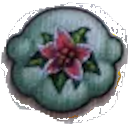
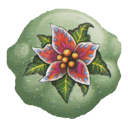
GUI polish testing

diff --git a/css/cauldron.css b/css/cauldron.css
@@ -39,15 +39,32 @@
     overflow-x: scroll;
     overflow-y: hidden;
 }
-.cauldron__board-history > div:last-child {
+.cauldron__board-history-- > div:last-child {
     -webkit-filter: drop-shadow(var(--hw) var(--hw) 0 var(--highlight-color)) 
                     drop-shadow(var(--hwn) var(--hw) 0 var(--highlight-color))
                     drop-shadow(var(--hw) var(--hwn) 0 var(--highlight-color)) 
                     drop-shadow(var(--hwn) var(--hwn) 0 var(--highlight-color));
-    filter: drop-shadow(var(--hw) var(--hw) 0 var(--highlight-color)) 
-            drop-shadow(var(--hwn) var(--hw) 0 var(--highlight-color)) 
-            drop-shadow(var(--hw) var(--hwn) 0 var(--highlight-color)) 
-            drop-shadow(var(--hwn) var(--hwn) 0 var(--highlight-color));
+    filter: 
+        /* drop-shadow(var(--hwb) var(--hwb) 0 var(--outline-color)) 
+        drop-shadow(var(--hwbn) var(--hwb) 0 var(--outline-color)) 
+        drop-shadow(var(--hwb) var(--hwbn) 0 var(--outline-color)) 
+        drop-shadow(var(--hwbn) var(--hwbn) 0 var(--outline-color)) */
+        drop-shadow(var(--hw) var(--hw) 0 var(--highlight-color)) 
+        drop-shadow(var(--hwn) var(--hw) 0 var(--highlight-color)) 
+        drop-shadow(var(--hw) var(--hwn) 0 var(--highlight-color)) 
+        drop-shadow(var(--hwn) var(--hwn) 0 var(--highlight-color))
+        drop-shadow(1px 1px 0 var(--outline-color)) 
+        drop-shadow(-1px -1px 0 var(--outline-color)) 
+        drop-shadow(1px -1px 0 var(--outline-color)) 
+        drop-shadow(-1px 1px 0 var(--outline-color));         
+}
+.cauldron__board-history > div:last-child {
+    filter: 
+        drop-shadow(var(--hw) var(--hw) 0 var(--highlight-color)) 
+        drop-shadow(var(--hwn) var(--hw) 0 var(--highlight-color)) 
+        drop-shadow(var(--hw) var(--hwn) 0 var(--highlight-color)) 
+        drop-shadow(var(--hwn) var(--hwn) 0 var(--highlight-color))
+        drop-shadow(2px 2px 2px var(--outline-color));
 }
 .cauldron__draw-menu {
     flex: 0.5;

diff --git a/js/index.js b/js/index.js
@@ -542,6 +542,11 @@ function openMultipleOverlay() {
     const multipleOverlay = document.getElementById('multipleOverlay');
     multipleOverlay.style.display = 'flex';
     setMultipleInputsLimits(player.getBagIngredientCount());
+    drawMultipleCount = Math.min(drawMultipleCount, player.getBagIngredientCount());
+    const multipleOverlayRange = document.getElementById('multipleOverlayRange');
+    multipleOverlayRange.value = drawMultipleCount;
+    const multipleOverlayNumber = document.getElementById("multipleOverlayNumber");
+    multipleOverlayNumber.value = drawMultipleCount;
 }
 function closeMultipleOverlay() {
     const multipleOverlay = document.getElementById('multipleOverlay');
@@ -607,10 +612,10 @@ function initUI() {
         document.getElementById('sideboard').style.display = 'none';
     }
 
-    const multipleOverlayRange = document.getElementById('multipleOverlayRange');
-    multipleOverlayRange.value = drawMultipleCount;
-    const multipleOverlayNumber = document.getElementById("multipleOverlayNumber");
-    multipleOverlayNumber.value = drawMultipleCount;
+    // const multipleOverlayRange = document.getElementById('multipleOverlayRange');
+    // multipleOverlayRange.value = drawMultipleCount;
+    // const multipleOverlayNumber = document.getElementById("multipleOverlayNumber");
+    // multipleOverlayNumber.value = drawMultipleCount;
 }
 function setMultipleInputsLimits(max) {
     const multipleOverlayRange = document.getElementById('multipleOverlayRange');
@@ -739,6 +744,7 @@ function buildIngredientDiv(ingredientId) {
     const color = ColorById.get(ingredient.color);
     // ingredientDiv.classList.add(color, "ingredient");
     ingredientDiv.classList.add("ingredient");
+    ingredientDiv.classList.add("ingredient__outline");
     ingredientDiv.style.backgroundImage = `url(${getImagePath(ingredient)})`;
     return ingredientDiv;
 }

diff --git a/css/styles.css b/css/styles.css
@@ -19,9 +19,12 @@
     --7-ingredient: hsl(308, 32%, 55%);
     --8-ingredient: #527768;
     --mobile-nav-height: 15vh;
-    --highlight-color: yellow;
+    --highlight-color: rgb(136, 255, 175);
+    --outline-color: rgb(0, 0, 0);
     --hw: 2px;
     --hwn: -2px;
+    --hwb: 1px;
+    --hwbn: -1px;
 }
 .white {background-color: var(--0-ingredient);}
 .green {background-color: var(--1-ingredient);}
@@ -86,14 +89,14 @@
     background-color: #111616;
 } */
 .nav__menu {
-    background-color: #2f4f4f;
+    background-color: #192626;
     flex: 2;
     display: flex;
     flex-shrink: 0;
     justify-content: space-around;
 }
 .--active {
-    background-color: #3b6363;
+    background-color: #2b4242;
 }
 .nav-block, .nav-block__settings {
     display: flex;
@@ -108,11 +111,18 @@
     flex: 1;
 }
 
+.ingredient__outline-- {
+    -webkit-filter: drop-shadow(var(--hwb) var(--hwb) 0 var(--outline-color)) 
+                    drop-shadow(var(--hwbn) var(--hwb) 0 var(--outline-color))
+                    drop-shadow(var(--hwb) var(--hwbn) 0 var(--outline-color)) 
+                    drop-shadow(var(--hwbn) var(--hwbn) 0 var(--outline-color));
+    filter: drop-shadow(var(--hwb) var(--hwb) 0 var(--outline-color)) 
+            drop-shadow(var(--hwbn) var(--hwb) 0 var(--outline-color)) 
+            drop-shadow(var(--hwb) var(--hwbn) 0 var(--outline-color)) 
+            drop-shadow(var(--hwbn) var(--hwbn) 0 var(--outline-color))
+}
 
-.colorButton {
-    text-align: center;
-    align-content: center;
-    height: 5em;
-    width: 5em;
-    cursor: pointer;
+.ingredient__outline {
+    filter: 
+        drop-shadow(2px 2px 2px var(--outline-color));
 }

diff --git a/css/settings.css b/css/settings.css
@@ -1,5 +1,5 @@
 .settings {
-    background-color: rgb(76, 113, 73);
+    background-color: rgb(31, 44, 30);
     display: none;
     flex-direction: column;
     justify-content: center;
@@ -13,12 +13,13 @@
     gap: 10px;
     padding: 10px;
     font-size: 30px;
+    background-color: #364e36;
 }
 .settings__menu__item {
     display: flex;
     justify-content: space-between;
     align-items: center;
-    background-color: rgb(41, 71, 41);
+    background-color: #3f903f;
     padding: 10px;
 }
 input {
